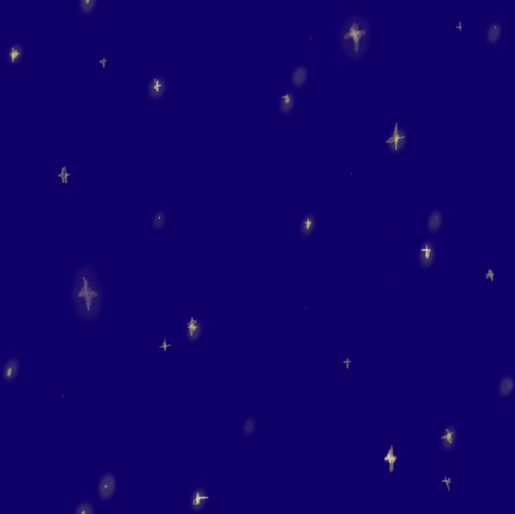
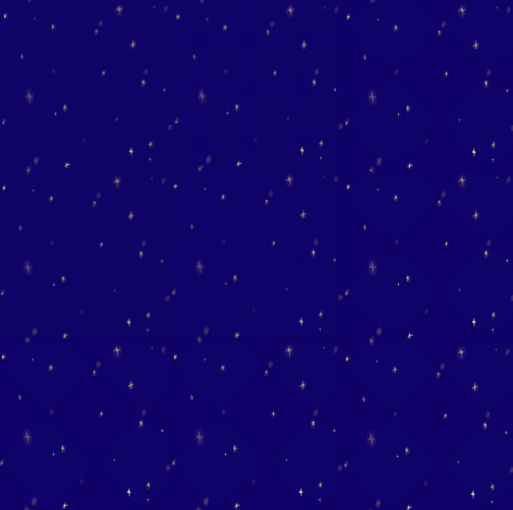
Fixed background image to show up and fit to scale

diff --git a/src/Render/Board.java b/src/Render/Board.java
@@ -18,13 +18,17 @@ import Snake.SnakeHead;
 import Snake.SnakePart;
 
 public class Board extends JPanel {
-	  private static int cellsPerCol = 50;
-	  private static int cellsPerRow = 50;
+	  private static int cellsPerCol;
+	  private static int cellsPerRow;
 	  private Tile tiles[]; //what si this for?
+	  private JLabel labels[];
 
-	  private JPanel boardPanel = new JPanel(new GridLayout(cellsPerRow,cellsPerCol,0,0));
+	  private JPanel boardPanel;
 
-	  public Board(){
+	  public Board(JPanel gamePanel, int rows, int cols){
+		boardPanel = gamePanel;
+		cellsPerCol = cols;
+		cellsPerRow = rows;
 	    setup();
 	  }
 
@@ -33,9 +37,23 @@ public class Board extends JPanel {
 	   */
 	  private void setup() {
 	    boardPanel.setSize(680,680);
-	    redraw();
+	    setLabels();
+	    //redraw();
 	  }
 
+	  public void setLabels() {
+			//Is the get method necessary?
+		  labels = new JLabel[(cellsPerCol*getCellsPerRow())];
+		  for (int i =  0; i < cellsPerCol; i++) {
+		    	for (int j = 0; j < cellsPerRow; j++) {
+		    		JLabel label = new JLabel(new Tile(new Position(i, j)).getImage());
+		    		boardPanel.add(label);
+		    	}
+		  }
+	      boardPanel.validate();
+	      boardPanel.repaint();
+	  }
+	  
 	  /**
 	   * Redraw the board when any changes to it has been made.
 	   * Updates the display.
@@ -43,29 +61,23 @@ public class Board extends JPanel {
 	  public void redraw() {
 		  boardPanel.removeAll();
 	      boardPanel.setBorder(javax.swing.BorderFactory.createTitledBorder(null, "SNAKE", javax.swing.border.TitledBorder.DEFAULT_JUSTIFICATION, javax.swing.border.TitledBorder.DEFAULT_POSITION, new java.awt.Font("Silom", 0, 18), new java.awt.Color(245, 225, 53))); // NOI18N
-		  boardPanel.setBackground(new java.awt.Color(15, 0, 104));
+		  //boardPanel.setBackground(new java.awt.Color(15, 0, 104));
 
-	    JLabel labels[] = new JLabel[(cellsPerCol*getCellsPerRow())];
 	    Snake snake = Game.getSnake();
 	    //Position snakePos = snake.getHeadPosition();
 
 	    for (int i =  0; i < cellsPerCol; i++) {
 	    	for (int j = 0; j < cellsPerRow; j++) {
-		      JLabel label;
 		      
 		      Tile tile = Game.getTile(i, j);
-		      if (tile instanceof SnakeHead) {
-		    	  label = new JLabel(new SnakeHead(new Position(i, j)).getImage());  
-		      }
-		      else if (tile instanceof SnakePart) {
-		    	  label = new JLabel(new SnakePart(new Position(i, j)).getImage());   
-		      }
-		      else {
-		    	  label = new JLabel(new Tile(new Position(i, j)).getImage()); 
-	    	  }
-		      
-		      labels[i+j] = label;
-		      boardPanel.add(labels[i+j]);
+	    	  tile.setPosition(new Position(i,j));
+	    	  labels[i*cellsPerRow+j].setIcon(tile.getImage());  
+		  
+		      //boardPanel.add(labels[i+j]);
+		   //   boardPanel.revalidate();
+		     // boardPanel.repaint();
+		      System.out.println("LOOP: i = "+i+", j= "+j);
+//Chekc 
 	    	}
 	    }
 	    boardPanel.updateUI();

diff --git a/src/Application/GUI.java b/src/Application/GUI.java
@@ -2,6 +2,8 @@ package Application;
 
 import Render.Board;
 import Snake.Game;
+
+import java.awt.BorderLayout;
 import java.awt.event.WindowEvent;
 
 
@@ -19,6 +21,8 @@ public class GUI extends javax.swing.JFrame {
 
 	private Board board;
 	private Game game;
+	private int cellsPerCol = 50;
+	private int cellsPerRow = 50;
 	
 	
     /**
@@ -37,9 +41,12 @@ public class GUI extends javax.swing.JFrame {
     // <editor-fold defaultstate="collapsed" desc="Generated Code">//GEN-BEGIN:initComponents
     private void initComponents() {
     	game = new Game();
-        board = new Board();
 
-        gamePanel = board.getBoardPanel(); 
+        gamePanel = new BackgroundImagePanel(cellsPerRow, cellsPerCol);
+        board = new Board(gamePanel, cellsPerRow, cellsPerCol);
+        
+        this.setLayout(new BorderLayout());
+	    this.add(gamePanel, BorderLayout.CENTER);
         jMenuBar1 = new javax.swing.JMenuBar();
         jMenu1 = new javax.swing.JMenu();
         jMenu2 = new javax.swing.JMenu();
@@ -48,7 +55,6 @@ public class GUI extends javax.swing.JFrame {
         setMaximumSize(new java.awt.Dimension(690, 690));
         setMinimumSize(new java.awt.Dimension(690, 690));
         
-        gamePanel.setBackground(new java.awt.Color(15, 0, 104));
         gamePanel.setBorder(javax.swing.BorderFactory.createTitledBorder(null, "SNAKE", javax.swing.border.TitledBorder.DEFAULT_JUSTIFICATION, javax.swing.border.TitledBorder.DEFAULT_POSITION, new java.awt.Font("Silom", 0, 18), new java.awt.Color(245, 225, 53))); // NOI18N
 
         javax.swing.GroupLayout jPanel1Layout = new javax.swing.GroupLayout(gamePanel);

diff --git a/src/Application/BackgroundImagePanel.java b/src/Application/BackgroundImagePanel.java
@@ -1,0 +1,36 @@
+package Application;
+
+import java.awt.Graphics;
+import java.awt.GridLayout;
+import java.awt.Image;
+import javax.swing.ImageIcon;
+import javax.swing.JPanel;
+
+public class BackgroundImagePanel extends JPanel {
+	/**
+	 * Default serialVersionUID.
+	 */
+	private static final long serialVersionUID = 1L;
+	
+	Image background;
+	
+	/**
+	 * Initializes a new JPanel with the main background image.
+	 */
+	public BackgroundImagePanel(int cellsPerRow, int cellsPerCol) {
+		ImageIcon imageIcon = new ImageIcon("src/Render/Images/background.png");
+		background = imageIcon.getImage().getScaledInstance(720, 690, Image.SCALE_SMOOTH);
+		//To get the image to scale properly you need to put it into another imageIcon
+		imageIcon = new ImageIcon(background);
+		background = imageIcon.getImage();
+		this.setLayout(new GridLayout(cellsPerRow, cellsPerCol, 0, 0));
+		//this.setSize(720,690);
+	}
+	
+	@Override
+	public void paintComponent(Graphics g) {
+		super.paintComponent(g);
+		g.drawImage(background, 0, 0, null);
+	}
+
+}

diff --git a/src/Snake/Star.java b/src/Snake/Star.java
@@ -7,6 +7,6 @@ public class Star extends Tile{
 	public Star(Position position) {
 		super(position);
 		this.position = position;
-		this.img = new ImageIcon("src/Render/Render.Images/star.png");
+		this.img = new ImageIcon("src/Render/Render/Images/star.png");
 	}
 }
